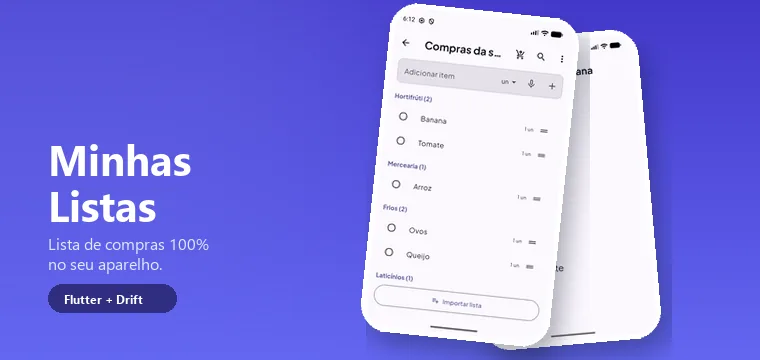
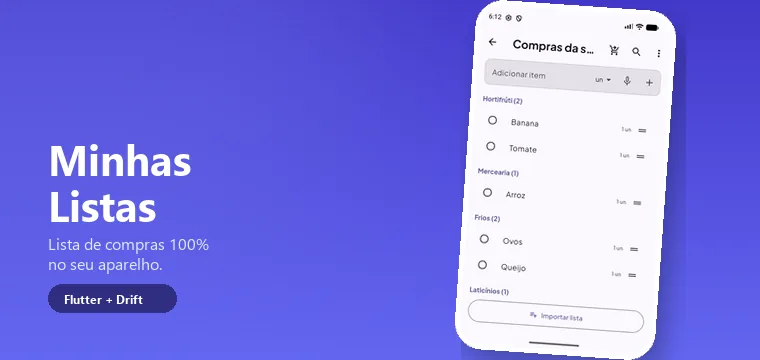
fix: corrige capa, indentacao e docs do projeto Minhas Listas

Changed region(s): [[0.4539, 0.0, 0.9079, 1.0], [0.6355, 0.7333, 0.6961, 0.7639]]

diff --git a/docs/superpowers/specs/2026-10-22-minhas-listas-portfolio-design.md b/docs/superpowers/specs/2026-10-22-minhas-listas-portfolio-design.md
@@ -1,7 +1,7 @@
 # Design — Minhas Listas no portfólio, com demo web
 
 **Data:** 2026-10-22
-**Status:** aguardando aprovação do dono
+**Status:** aprovado e implementado; deploy pendente
 **Repositórios envolvidos:**
 
 - `oliverlucasfer.github.io` (site do portfólio)
@@ -65,7 +65,7 @@ Rejeitada. O gerador sempre cria a página; um projeto pessoal deste porte merec
 O app usa rotas por caminho (`usarPathUrlStrategy()`), e o GitHub Pages não reescreve URLs. Sem tratamento, recarregar `/listacompras/listas` retorna 404.
 
 **A — Hash routing apenas no build de demo (escolhida).**
-Uma condicional ativada por `--dart-define=DEMO=true` faz o build publicado usar `useHashUrlStrategy()`. As rotas viram `/listacompras/#/listas`, recarregar e compartilhar funcionam nativamente, sem página de erro e sem status 404. O build local e o produto mantêm as rotas normais. Trade-off: `#` na URL e uma pequena mudança em `lib/core/web/url_strategy_web.dart`.
+Uma condicional ativada por `--dart-define=DEMO=true` faz o build publicado usar `setUrlStrategy(HashUrlStrategy())`. As rotas viram `/listacompras/#/listas`, recarregar e compartilhar funcionam nativamente, sem página de erro e sem status 404. O build local e o produto mantêm as rotas normais. Trade-off: `#` na URL e uma pequena mudança em `lib/core/web/url_strategy_web.dart`.
 
 **B — `404.html` com o app.**
 Rejeitada. URLs limpas e zero mudança no app, mas todo deep link responde HTTP 404, prejudicando prévia de link e compartilhamento.
@@ -114,7 +114,7 @@ O link `privacidade` é novo e exige o rótulo correspondente em `data/site.json
 
 Alterações em `ListaCompras`:
 
-1. `lib/core/web/url_strategy_web.dart`: a função `usarPathUrlStrategy()` já é o ponto único de configuração no Web. Ela passa a checar `bool.fromEnvironment('DEMO')` e chamar `useHashUrlStrategy()` quando verdadeiro; caso contrário, mantém `usePathUrlStrategy()`. É a única mudança em `lib/`; `url_strategy_nativa.dart`, `bootstrap.dart` e o restante do app ficam intocados.
+1. `lib/core/web/url_strategy_web.dart`: a função `usarPathUrlStrategy()` já é o ponto único de configuração no Web. Ela passa a checar `bool.fromEnvironment('DEMO')` e chamar `setUrlStrategy(HashUrlStrategy())` quando verdadeiro; caso contrário, mantém `usePathUrlStrategy()`. `url_strategy_nativa.dart`, `bootstrap.dart` e o restante do app ficam intocados.
 
 2. `.github/workflows/pages.yml`:
    - instalar Flutter 3.44.5 (mesma versão do badge e do CI) via action oficial de setup;
@@ -126,7 +126,7 @@ Alterações em `ListaCompras`:
 
 3. Nenhuma mudança no banco, nas telas ou na versão do app. Sem bump de versão, portanto sem alteração em `web/version.json`. Rodar `flutter analyze` e `flutter test` antes do merge.
 
-**Roteamento:** com hash, a URL inicial continua `/listacompras/` e as rotas internas ficam `/listacompras/#/listas`, `/listacompras/#/lista/<uuid>`. O navegador nunca pede essas rotas ao servidor, então recarregar, favoritar e compartilhar funcionam sem `404.html` e sem status de erro. O `base href` absoluto continua necessário para os assets.
+**Roteamento:** com hash, a URL inicial continua `/listacompras/` e as rotas de shell ficam `/listacompras/#/listas`, `/listacompras/#/historico`, `/listacompras/#/configuracoes`. Abrir uma lista usa `context.push('/lista/<uuid>')` (go_router), que não altera a URL — comportamento pré-existente, idêntico ao path strategy; recarregar a partir daí volta ao índice. Uma URL fria com `#/lista/<uuid>` abre a lista correta. O navegador nunca pede essas rotas ao servidor, então nada retorna 404. O `base href` absoluto continua necessário para os assets.
 
 **Persistência:** o GitHub Pages não permite cabeçalhos COOP/COEP, então o caminho OPFS do Drift não estará disponível. O app já usa `WasmDatabase.open`, que cai para IndexedDB nesse cenário. Porém o VFS IndexedDB do sqlite3 não dá garantia de durabilidade e não persiste escritas feitas dentro de transações até que outra escrita fora de transação ocorra — na prática, itens sumiam após recarregar. Para o build de demo, `lib/drift/conexao/conexao_web.dart` passa a rodar um `SELECT 1` por segundo fora de transação, o que força o flush do VFS. O timer é ativado apenas com `DEMO=true`, portanto o app local e o produto não mudam. A demo precisa ser validada criando lista e item, recarregando e conferindo que ambos continuam.
 

diff --git a/docs/superpowers/plans/2026-10-22-minhas-listas-portfolio.md b/docs/superpowers/plans/2026-10-22-minhas-listas-portfolio.md
@@ -24,7 +24,7 @@
 
 ## Review Focus
 
-1. **Recarregar uma rota interna da demo** (`#/listas`, `#/lista/<id>`) deve reabrir a mesma tela, sem 404 — Task 1 (steps 5–6) e Task 2 (steps 3 e 10).
+1. **Recarregar a demo em uma rota de shell** (`#/listas`, `#/historico`) deve reabrir a mesma tela, sem 404; URL fria com `#/lista/<id>` abre a lista. Abrir lista pelo app não altera a URL (push imperativo do go_router, pré-existente) — Task 1 (steps 5–6) e Task 2 (steps 3 e 10).
 2. **Persistência do Drift sem COOP/COEP** no Pages: criar lista, recarregar e os dados continuam (fallback IndexedDB) — Task 2 (steps 3 e 10).
 3. **CSP não pode quebrar o Flutter**: bootstrap, CanvasKit e service worker carregam sem erro de console — Task 2 (steps 3 e 10).
 4. **Build local/produto não pode herdar o hash**: sem `DEMO`, as rotas continuam por caminho — Task 1 (step 6).
@@ -131,7 +131,7 @@ python -m http.server 8099 --directory _preview
 ```
 
 Abra `http://localhost:8099/listacompras/`, crie uma lista, adicione um item e navegue até a lista.
-Expected: a URL passa a conter `#/listas` (ou `#/lista/<uuid>`); após pelo menos 2 segundos, recarregar mantém a mesma tela e o item continua lá. Feche o servidor e apague `_preview`.
+Expected: a URL passa a conter `#/listas`; após pelo menos 2 segundos, recarregar volta ao índice (o push da lista não muda a URL) e o item continua lá. Feche o servidor e apague `_preview`.
 
 - [ ] **Step 6: Validar que o build normal continua com rotas por caminho**
 
@@ -446,7 +446,7 @@ Em `README.md`, troque `# 9 projetos + páginas de projeto completas (PT/EN)` po
 - [ ] **Step 5: Gerar o site**
 
 Run: `node build.mjs`
-Expected: build conclui e informa `Páginas: 2 home + 22 case studies + 404` (11 projetos × 2).
+Expected: build conclui e informa `Páginas: 2 home + 20 case studies + 404` (10 projetos × 2).
 
 - [ ] **Step 6: Verificar o resultado**
 
